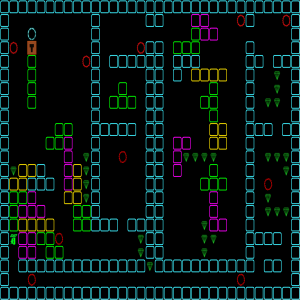
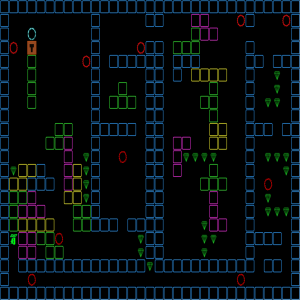
Add new scoring stuff. Remove old spikey non hazards and stars

Changed region(s): [[0.0, 0.0, 1.0, 1.0], [0.66, 0.54, 0.78, 0.78], [0.09, 0.18, 0.12, 0.36]]

diff --git a/WindowsGame1/Import Code/Importer.cs b/WindowsGame1/Import Code/Importer.cs
@@ -71,7 +71,7 @@ namespace GravityShift.Import_Code
                         mEntities.Add(new EntityInfo(element));
             }
 
-            level.StartingPoint = GetPlayerStart();
+            GetPlayerStart(level);
 
             return level;
         }
@@ -80,13 +80,23 @@ namespace GravityShift.Import_Code
         /// Gets the players start position
         /// </summary>
         /// <returns>A vector2 with the players start position(or -100,-100 if none is provided)</returns>
-        public Vector2 GetPlayerStart()
+        public void GetPlayerStart(Level level)
         {
             foreach (EntityInfo entity in mEntities)
+            {
                 if (entity.mType == XmlKeys.PLAYER_LOCATION && entity.mName == XmlKeys.PLAYER_START)
-                    return GridSpace.GetDrawingCoord(entity.mLocation);
-
-            return new Vector2(-100, -100);
+                {
+                    level.StartingPoint = GridSpace.GetDrawingCoord(entity.mLocation);
+                    if (entity.mProperties.ContainsKey(XmlKeys.IDEAL_TIME))
+                        level.IdealTime = int.Parse(entity.mProperties[XmlKeys.IDEAL_TIME]);
+                    else
+                        level.IdealTime = 400;
+                }
+                if (entity.mType == XmlKeys.STATIC_OBJECT && entity.mCollisionType == XmlKeys.COLLECTABLE)
+                {
+                    level.CollectableCount++;
+                }
+            }
         } 
 
         /// <summary>
@@ -101,7 +111,7 @@ namespace GravityShift.Import_Code
 
             //Need to fix ---- TODODODODODODODO
             return new PlayerEnd(mContent, EntityInfo.CreatePlayerEndInfo(
-                Vector2.Add(GridSpace.GetGridCoord(GetPlayerStart()),new Vector2(1,1))));
+                Vector2.Add(GridSpace.SIZE,new Vector2(1,1))));
         }
 
         /// <summary>

diff --git a/WindowsGame1/Level.cs b/WindowsGame1/Level.cs
@@ -58,6 +58,15 @@ namespace GravityShift
         public Vector2 StartingPoint { get { return mStartingPoint; } set { mStartingPoint = value; } }
         private Vector2 mStartingPoint;
 
+        private int mIdealTime;
+        public int IdealTime
+        { get { return mIdealTime; } set { mIdealTime = value; } }
+
+        private int mCollectableCount;
+        public int CollectableCount
+        { get { return mCollectableCount; } set { mCollectableCount = value; } }
+
+
         //Enumerator for different states of death (playing game, in need of respawn, or panning back to start point)
         private enum DeathStates
         {

diff --git a/WindowsGame1/Import Code/XmlKeys.cs b/WindowsGame1/Import Code/XmlKeys.cs
@@ -35,6 +35,7 @@ namespace GravityShift.Import_Code
         public static string SOUND_FILE = "SoundFile";
         public static string LOOP = "Loop";
         public static string PLAYER_FACE = "PlayerFace";
+        public static string IDEAL_TIME = "IdealTime";
         
         //Names
         public static string WIDTH = "Width";
